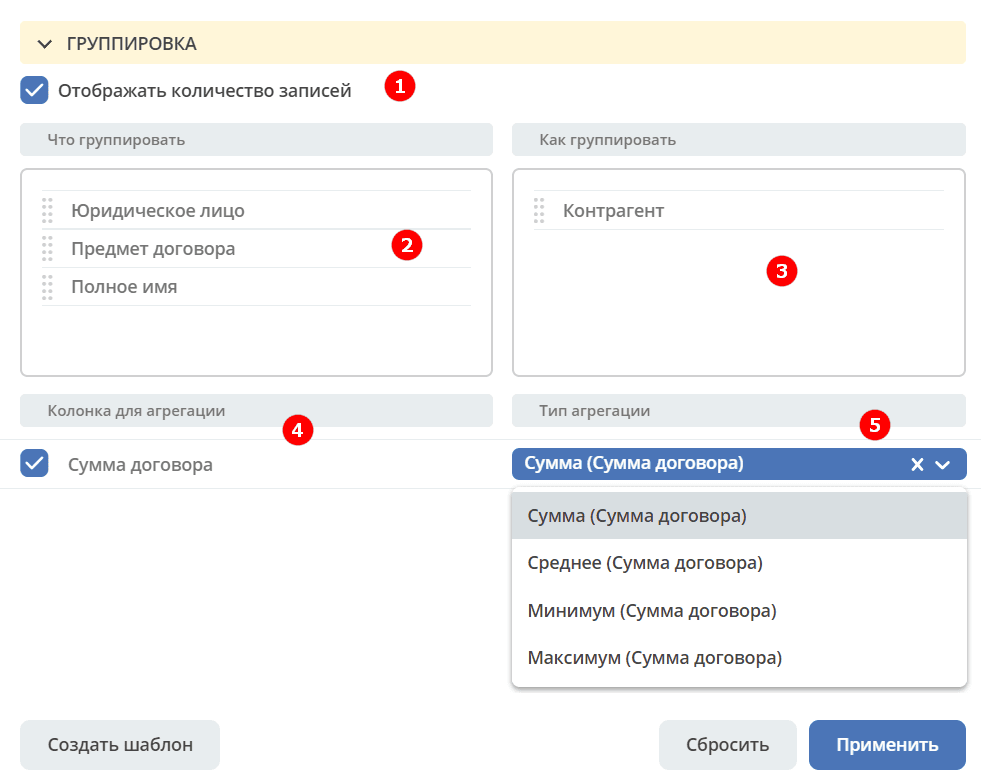
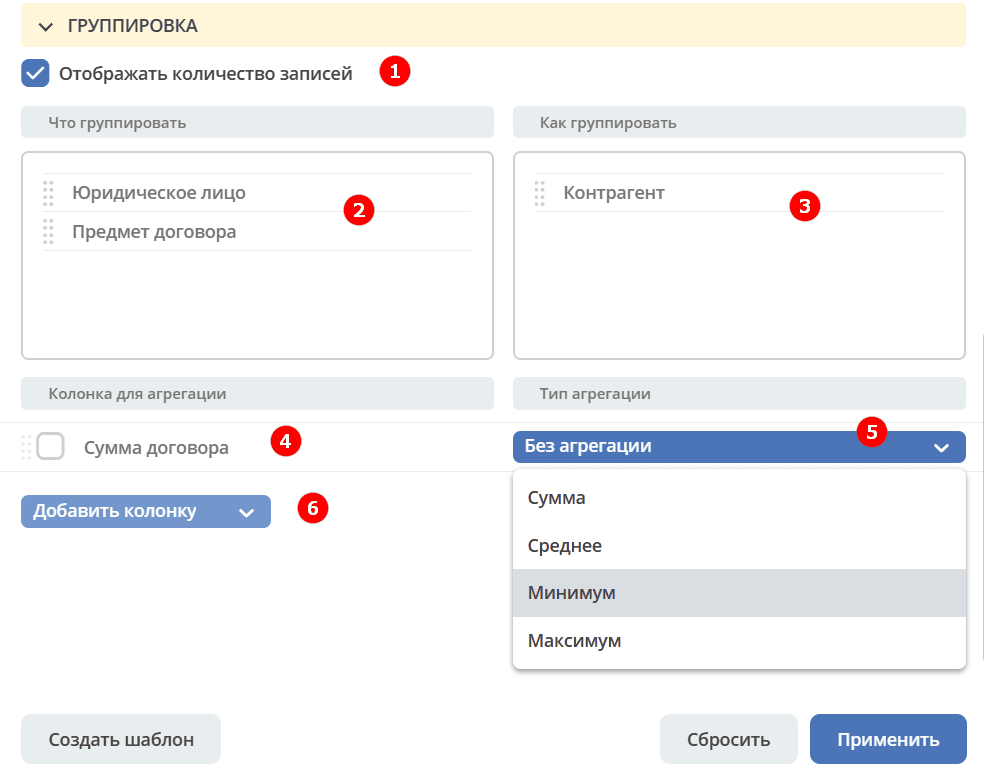
ECOSUI-2869_Add_column

diff --git a/docs/introduction/homepage.rst b/docs/introduction/homepage.rst
@@ -22,7 +22,7 @@
 
 .. _page_settings:
 
-Для перехода к настройкам страницы необходимо нажать на значок настройки в панели управления и выбрать пункт **«Настроить страницу»**.
+Для перехода к настройкам страницы необходимо нажать **значок настройки **в панели управления и выбрать пункт **«Настроить страницу»**.
 
  .. image:: _static/homepage/intro_3.png
        :width: 500
@@ -346,19 +346,21 @@
 Фильтрация
 """""""""""
 
-Для фильтрации записей журнала по определенным параметрам, необходимо в блоке **Фильтрация** заполнить критерии и нажать **«Применить»**. 
+Для фильтрации записей журнала по определенным параметрам, необходимо в блоке **Фильтрация** заполнить критерии.
 
-Порядок действий при осуществлении фильтрации записей журнала по заданным критериям: 
-
-1.	Нажать на кнопку **«Настройки»**.
-2.	Если критериев по умолчанию не хватает, то нажать на кнопку **«Добавить критерий»** или **«Добавить группу условий»** и из раскрывающегося списка выбрать дополнительные критерии поиска:
+1.	Если критериев по умолчанию не хватает, то нажать кнопку **«Добавить критерий»** или **«Добавить группу условий»** и из раскрывающегося списка выбрать дополнительные критерии:
 
  .. image:: _static/homepage/intro_25.png
        :width: 500
        :align: center 
 
-3.	Заполнить условия поиска по необходимым критериям (одному или нескольким). Критерии, которые не заполнены, не будут учитываться при фильтрации.
-4.	Нажать на кнопку **«Применить»**.
+2.	Заполнить условия по необходимым критериям (одному или нескольким). Критерии, которые не заполнены, не будут учитываться при фильтрации.
+
+ .. image:: _static/homepage/intro_25_1.png
+       :width: 500
+       :align: center 
+
+3.	Нажать кнопку **«Применить»**.
 
 При необходимости можно менять порядок критериев перетаскиванием.
 
@@ -377,7 +379,7 @@
 Настройка колонок журнала
 """"""""""""""""""""""""""
 
-Для выбора колонок, которые необходимо отображать в журнале, в блоке **Настройка колонок** достаточно отметить их флагом и нажать **«Применить»**.
+Для выбора колонок, которые необходимо отображать в журнале, в блоке **Настройка колонок журнала** достаточно отметить их флагом и нажать **«Применить»**.
 В правой части блока **Настройка колонок** можно выбрать сортировку в колонках – по возрастанию или по убыванию.
 
  .. image:: _static/homepage/intro_28.png
@@ -395,19 +397,45 @@
        :width: 500
        :align: center 
 
-Можно выбрать **колонку для агрегации** **(4)** и **тип агрегации** **(5)**.
+Можно выбрать **колонку для агрегации** **(4)** и **тип агрегации** **(5)**, добавить **дополнительную колонку** для агрегации **(6)**.
 
 Если необходимо показать информацию о количестве записей, которые попали под конкретную агрегацию, выставите чекбокс **Отображать количество записей** **(1)** - в журнал будет добавлен последний столбец **Общее количество** с рассчитанным значением.
 
+.. _additional_column:
+
+Для добавления колонки нажмите **«Добавить колонку»**, выберите колонку. Выбор осуществляется из колонок для агрегации.
+
+ .. image:: _static/homepage/column_1.png
+       :width: 500
+       :align: center 
+
+Для изменения порядка дополнительных колонок используйте **(1)**. Для удаления нажмите **(3)**. 
+
+ .. image:: _static/homepage/column_2.png
+       :width: 500
+       :align: center 
+
+По нажатию на **(2)** доступна индивидуальная настройка фильтров, ввод названия колонки. Настройка фильтров аналогична описанному выше. 
+
+ .. image:: _static/homepage/column_3.png
+       :width: 500
+       :align: center 
+
+Колонок может быть добавлено несколько.
+
+ .. image:: _static/homepage/column_4.png
+       :width: 500
+       :align: center 
+
 Созданную группировку данных можно сохранить в шаблон, нажав **«Создать шаблон»**. 
 
-Для просмотра информации по выбранной группировке нажмите **«Применить»**. 
+Для просмотра информации по выбранной группировке нажмите **«Применить»**. Для просмотра сгруппированных по выбранному значению строк нажмите на стрелку в соответствующей строке. 
 
  .. image:: _static/homepage/intro_30.png
        :width: 600
        :align: center 
 
-Для просмотра сгруппированных по выбранному значению строк нажмите на стрелку в соответствующей строке. Чтобы сбросить примененные фильтр, нажмите:
+Чтобы сбросить примененные фильтр, нажмите:
 
  .. image:: _static/homepage/intro_30_1.png
        :width: 600

diff --git a/docs/general/Язык_предикатов.rst b/docs/general/Язык_предикатов.rst
@@ -24,16 +24,15 @@ JAVA представление
        :align: center
        :alt: Предикат
 
-- Predicate - базовый маркерный интерфейс без методов
-- AttributePredicate - предикат связанный с некоторым аттрибутом
-- EmptyPredicate - предикат "Значение аттрибута пустое"
-- ValuePredicate - предикат "Значение аттрибута равно/содержит/одно из/больше/меньше/похоже/больше  или равно/меньше или равно
-- Тип сравнения определяется полем type. Значение для сравнения в поле value
-- NotPredicate - предикат "НЕ какой_то_другой_предикат"
-- ComposedPredicate - предикат, который объединяет другие предикаты
-- AndPredicate - предикат И
-- OrPredicate - предикат ИЛИ
-- VoidPredicate - пустой предикат, который получается если t (тип) не задан. Как правило означает, что при фильтрации/поиске никаких проверок не нужно (берем все записи).
+- **Predicate** - базовый маркерный интерфейс без методов
+- **AttributePredicate** - предикат связанный с некоторым аттрибутом
+- **EmptyPredicate** - предикат "Значение аттрибута пустое"
+- **ValuePredicate** - предикат "Значение аттрибута равно/содержит/одно из/больше/меньше/похоже/больше  или равно/меньше или равно. Тип сравнения определяется полем type. Значение для сравнения в поле value
+- **NotPredicate** - предикат "НЕ какой_то_другой_предикат"
+- **ComposedPredicate** - предикат, который объединяет другие предикаты
+- **AndPredicate** - предикат И
+- **OrPredicate** - предикат ИЛИ
+- **VoidPredicate** - пустой предикат, который получается если t (тип) не задан. Как правило означает, что при фильтрации/поиске никаких проверок не нужно (берем все записи).
 
 JSON представление
 ------------------
@@ -66,7 +65,7 @@ JSON представление
     ]
  }
 
-В поле "t" записывается тип предиката, в "att" название аттрибута (если тип предиката его требует) и в "val" значение (опять же имеет смысл не для всех предикатов).
+В поле **"t"** записывается тип предиката, в **"att"** название аттрибута (если тип предиката его требует) и в **"val"** значение (опять же имеет смысл не для всех предикатов).
 
 Для конвертации java предикатов в json и обратно::
 

diff --git a/docs/settings_kb/interface/widgets.rst b/docs/settings_kb/interface/widgets.rst
@@ -724,7 +724,7 @@ Cравнение версий процесса - выберите версии 
   - **А** – активные инстансы
   - **В** – завершенные инстансы
 
-* **Панель тепловой карты (4)** – настройка прозрачности, отображение активных и завершенных инстансов
+* **Панель тепловой карты (4)** – настройка прозрачности, отображение минимального и максимального значений активных и завершенных инстансов.
 
 * **Журнал (5)** -  В журнале для каждого столбца можно настроить фильтрацию и поиск событий. Визуализация будет перерисована в соответствии с выбранными фильтрами.
 

diff --git a/docs/introduction/ecos_modules/contract.rst b/docs/introduction/ecos_modules/contract.rst
@@ -243,7 +243,7 @@
        :width: 600
        :align: center
 
-Делопроизводитель прикладывает скан-копию подписанного Договора:
+Делопроизводитель добавляет скан-копию подписанного Договора:
 
  .. image:: _static/contract/contract_11_1.png
        :width: 600

diff --git a/docs/integration/Camel_DSL.rst b/docs/integration/Camel_DSL.rst
@@ -4,6 +4,8 @@
 .. contents::
      :depth: 2
 
+**ECOS Camel** - это надстройка над Apache Camel, которая адаптирована для работы с платформой Citeck ECOS.
+
 Общие сведения
 ---------------
 
